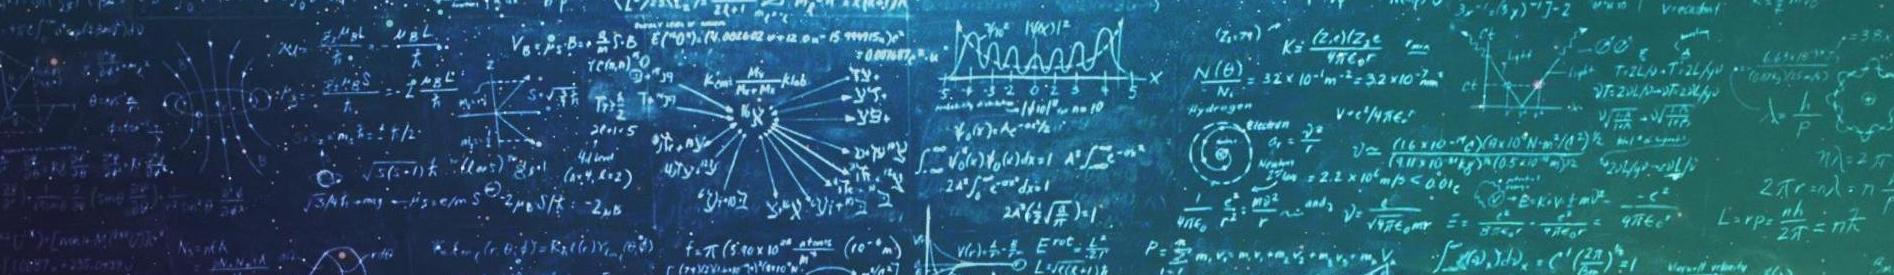
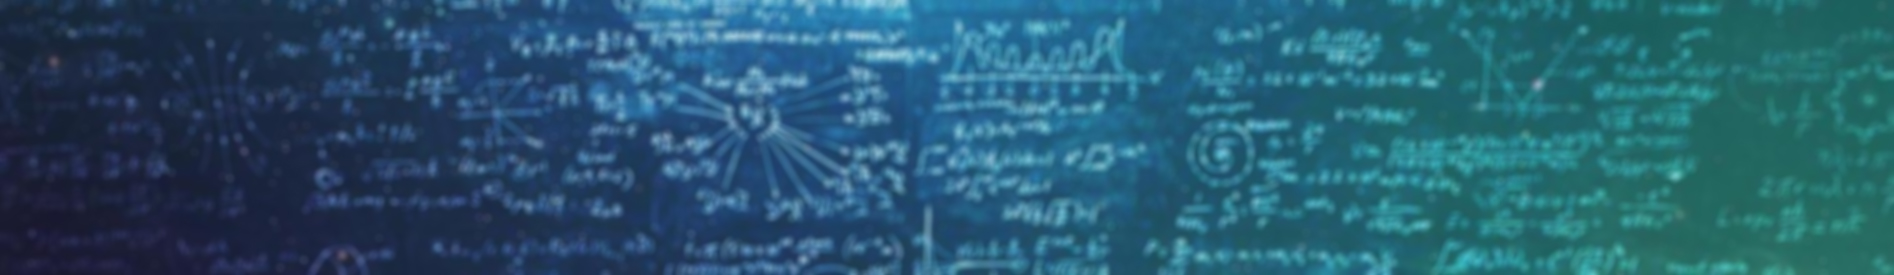
email plus minor fixes

diff --git a/index.html b/index.html
@@ -109,6 +109,9 @@
           <p class="bio">
             I am a Computer Science student at the University of Central Florida. I am interested in the field of Machine Learning and Mobile Development, so I have invested my time in exploring these fields. On my free time, I like to play League of Legends and FIFA, play the acoustic guitar and hang out with friends. I also enjoying playing and refereeing different sports, primarily soccer, dodgeball and ping-pong.
           </p>
+          <p class="bio">
+              <a href="mailto:davidisrawi@gmail.com?Subject=Hello%20David" target="_top">Email me</a>
+          </p>
         </div>
       </div>
     </div><!-- Row Green -->

diff --git a/css/style.css b/css/style.css
@@ -23,7 +23,7 @@ ______________________________________________________________ */
 }
 
 .back {
-    background: url("../images/back2.jpg");
+    background: url("../images/back.jpg");
     background-size: cover;
 }
 /* Typography
@@ -45,6 +45,11 @@ h2.bio {
 }
 
 p.bio {
+    color: white;
+    font-size: 1.4em;
+}
+
+a.bio {
     color: white;
     font-size: 1.4em;
 }
@@ -99,6 +104,11 @@ img.avatar {
 img.volunteer {
     height: 120px;
     width: 150px;
+}
+
+img.project {
+    max-width: 170px;
+    max-height: 170px;
 }
 
 img.shared {
